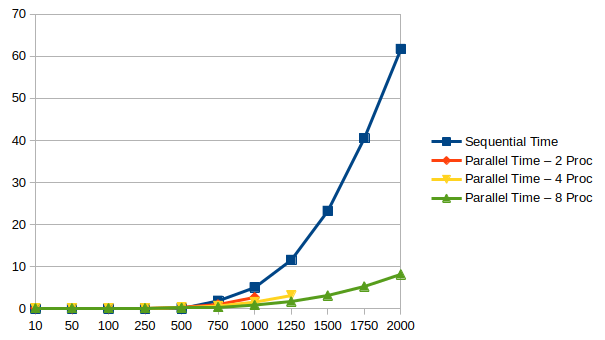
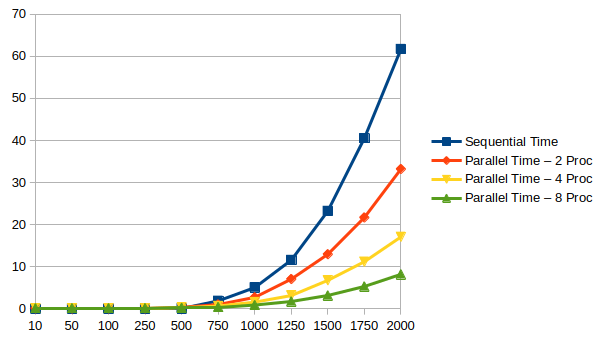
Add files via upload

diff --git a/MatrixC.c b/MatrixC.c
@@ -765,122 +765,43 @@ void subtractMatrix(const Matrix *A, const Matrix *B, Matrix *result)
 }
 
 /*
-Name: LU()
-Parameters: Matrix *A, Matrix *L, Matrix *U
+Name: LU
+Parameters: Matrix* A, Matrix* L, Matrix* U
 Return: void
-Description: Computes LU decomposition of matrix A using OpenMPI. A = L × U
+Description: Performs LU decomposition
 */
 void LU(Matrix *A, Matrix *L, Matrix *U)
 {
-  if (!isValid(A))
-    error("Invalid matrix");
-
-  int rank, size;
-  MPI_Comm_rank(MPI_COMM_WORLD, &rank);
-  MPI_Comm_size(MPI_COMM_WORLD, &size);
-
   int n = A->rows;
 
-  if (A->rows != A->cols)
-    error("LU decomposition requires a square matrix");
-
-  int rows_per_proc = n / size;
-  int remainder = n % size;
-  int local_rows = (rank < remainder) ? rows_per_proc + 1 : rows_per_proc;
-
-  int start_row = (rank < remainder)
-                      ? rank * (rows_per_proc + 1)
-                      : rank * rows_per_proc + remainder;
-
-  double local_matrix[local_rows][n];
-  double pivot_row[n];
-
-  // Setup scatter metadata
-  int sendcounts[size], displs[size];
-  int offset = 0;
-  for (int i = 0; i < size; i++)
+  // Initialize L and U matrices
+  for (int i = 0; i < n; ++i)
   {
-    int count = ((i < remainder) ? rows_per_proc + 1 : rows_per_proc) * n;
-    sendcounts[i] = count;
-    displs[i] = offset;
-    offset += count;
-  }
-
-  // Scatter A into local_matrix
-  MPI_Scatterv(&(A->matrix[0][0]), sendcounts, displs, MPI_DOUBLE,
-               &(local_matrix[0][0]), local_rows * n, MPI_DOUBLE,
-               0, MPI_COMM_WORLD);
-
-  if (rank == 0)
-  {
-    initSize(L, n, n);
-    initSize(U, n, n);
-  }
-
-  for (int k = 0; k < n; k++)
-  {
-    // Determine pivot owner and local row index
-    int owner = -1, local_k = -1;
-    for (int i = 0; i < size; i++)
+    for (int j = 0; j < n; ++j)
     {
-      int s = (i < remainder) ? i * (rows_per_proc + 1) : i * rows_per_proc + remainder;
-      int e = s + ((i < remainder) ? rows_per_proc + 1 : rows_per_proc);
-      if (k >= s && k < e)
+      L->matrix[i][j] = 0.0;
+      U->matrix[i][j] = A->matrix[i][j];
+    }
+  }
+
+  for (int k = 0; k < n; ++k)
+  {
+    for (int i = k + 1; i < n; ++i)
+    {
+      double multiplier = U->matrix[i][k] / U->matrix[k][k];
+      L->matrix[i][k] = multiplier;
+
+      for (int j = k; j < n; ++j)
       {
-        owner = i;
-        local_k = k - s;
-        break;
+        U->matrix[i][j] -= multiplier * U->matrix[k][j];
       }
     }
-
-    if (rank == owner)
-      memcpy(pivot_row, local_matrix[local_k], sizeof(double) * n);
-
-    MPI_Bcast(pivot_row, n, MPI_DOUBLE, owner, MPI_COMM_WORLD);
-
-    for (int i = 0; i < local_rows; i++)
-    {
-      int global_i = start_row + i;
-      if (global_i <= k)
-        continue;
-
-      double factor = local_matrix[i][k] / pivot_row[k];
-      local_matrix[i][k] = factor;
-
-      for (int j = k + 1; j < n; j++)
-        local_matrix[i][j] -= factor * pivot_row[j];
-    }
   }
 
-  // Gather modified matrix back to A
-  MPI_Gatherv(&(local_matrix[0][0]), local_rows * n, MPI_DOUBLE,
-              &(A->matrix[0][0]), sendcounts, displs, MPI_DOUBLE,
-              0, MPI_COMM_WORLD);
-
-  // Extract L and U on rank 0
-  if (rank == 0)
+  // Set the diagonal of L to 1
+  for (int i = 0; i < n; ++i)
   {
-    for (int i = 0; i < n; i++)
-    {
-      for (int j = 0; j < n; j++)
-      {
-        if (i > j)
-        {
-          L->matrix[i][j] = A->matrix[i][j];
-          U->matrix[i][j] = 0;
-        }
-        else if (i == j)
-        {
-          L->matrix[i][j] = 1;
-          U->matrix[i][j] = A->matrix[i][j];
-        }
-        else
-        {
-          L->matrix[i][j] = 0;
-          U->matrix[i][j] = A->matrix[i][j];
-        }
-      }
-    }
+    L->matrix[i][i] = 1.0;
   }
 }
 

diff --git a/luTest.c b/luTest.c
@@ -4,13 +4,10 @@
 #include <time.h>
 #include "MatrixC.h"
 
-void divisor(const char *msg)
-{
-  printf("\n---- %s ----\n\n", msg);
-}
+void divisor(const char *msg);
 
-// Global matrices
-Matrix A_original, L_parallel, U_parallel, L_seq, U_seq;
+Matrix A_original, L_parallel, U_parallel;
+Matrix L_seq, U_seq;
 
 int main(int argc, char **argv)
 {
@@ -22,22 +19,34 @@ int main(int argc, char **argv)
 
   srand(time(NULL) + rank);
 
-  int N = 100;
-  initSize(&A_original, N, N);
-  initSize(&L_parallel, N, N);
-  initSize(&U_parallel, N, N);
-  initSize(&L_seq, N, N);
-  initSize(&U_seq, N, N);
+  int N = 10, use_sequential = 0;
 
   if (rank == 0)
   {
+    printf("Enter matrix size (N for NxN): ");
+    scanf("%d", &N);
+
+    printf("Run sequential also? (1 = yes, 0 = no): ");
+    scanf("%d", &use_sequential);
+  }
+
+  MPI_Bcast(&N, 1, MPI_INT, 0, MPI_COMM_WORLD);
+  MPI_Bcast(&use_sequential, 1, MPI_INT, 0, MPI_COMM_WORLD);
+
+  initSize(&A_original, N, N);
+  initSize(&L_parallel, N, N);
+  initSize(&U_parallel, N, N);
+
+  if (rank == 0)
+  {
+    initSize(&L_seq, N, N);
+    initSize(&U_seq, N, N);
     setRandom(&A_original, 100);
   }
 
-  // Broadcast A_original to all
   MPI_Bcast(&(A_original.matrix[0][0]), N * N, MPI_DOUBLE, 0, MPI_COMM_WORLD);
 
-  // ---------- Parallel LU ----------
+  // ------------------ Parallel LU ------------------
   if (rank == 0)
     printf("Running parallel LU()...\n");
 
@@ -47,27 +56,31 @@ int main(int argc, char **argv)
 
   if (rank == 0)
   {
-    printf("LU() done in %.3f seconds\n", end - start);
-    divisor("LU");
-  }
+    printf("Parallel LU() done in %.3f seconds\n", end - start);
+    divisor("Parallel LU");
 
-  // ---------- Sequential LU ----------
-  if (rank == 0)
-  {
-    Matrix A_copy;
-    initSize(&A_copy, N, N);
-    copyMatrix(&A_copy, &A_original);
+    if (use_sequential == 1)
+    {
+      Matrix A_copy;
+      initSize(&A_copy, N, N);
+      copyMatrix(&A_copy, &A_original);
 
-    printf("Running sequential Seq_LU()...\n");
+      printf("Running sequential Seq_LU()...\n");
 
-    start = MPI_Wtime();
-    Seq_LU(&A_copy, &L_seq, &U_seq);
-    end = MPI_Wtime();
+      start = MPI_Wtime();
+      Seq_LU(&A_copy, &L_seq, &U_seq);
+      end = MPI_Wtime();
 
-    printf("Seq_LU() done in %.3f seconds\n", end - start);
-    divisor("Seq_LU");
+      printf("Sequential Seq_LU() done in %.3f seconds\n", end - start);
+      divisor("Sequential LU");
+    }
   }
 
   MPI_Finalize();
   return 0;
+}
+
+void divisor(const char *msg)
+{
+  printf("\n---- %s ----\n\n", msg);
 }

diff --git a/multiplyTest.c b/multiplyTest.c
@@ -21,7 +21,21 @@ int main(int argc, char **argv)
 
   srand(time(NULL) + rank);
 
-  int N = 1000;
+  int N = 100, use_parallel = 0;
+
+  if (rank == 0)
+  {
+    printf("Enter matrix size: ");
+    scanf("%d", &N);
+
+    printf("Run sequential too? (1 = yes, 0 = no): ");
+    scanf("%d", &use_parallel);
+  }
+
+  // Broadcast settings
+  MPI_Bcast(&N, 1, MPI_INT, 0, MPI_COMM_WORLD);
+  MPI_Bcast(&use_parallel, 1, MPI_INT, 0, MPI_COMM_WORLD);
+
   initSize(&A, N, N);
   initSize(&B, N, N);
   initSize(&C_parallel, N, N);
@@ -53,7 +67,7 @@ int main(int argc, char **argv)
   }
 
   // ------------------ Sequential ------------------
-  if (rank == 0)
+  if (rank == 0 && use_parallel == 1)
   {
     printf("Running sequential Seq_multiplyMatrix()...\n");
 

diff --git a/rrefTest.c b/rrefTest.c
@@ -22,7 +22,21 @@ int main(int argc, char **argv)
 
   srand(time(NULL) + rank);
 
-  int N = 1000;
+  int N = 10, use_parallel = 1;
+
+  if (rank == 0)
+  {
+    printf("Enter matrix size: ");
+    scanf("%d", &N);
+
+    printf("Run sequential too? (1 = yes, 0 = no): ");
+    scanf("%d", &use_parallel);
+  }
+
+  // Broadcast settings
+  MPI_Bcast(&N, 1, MPI_INT, 0, MPI_COMM_WORLD);
+  MPI_Bcast(&use_parallel, 1, MPI_INT, 0, MPI_COMM_WORLD);
+
   initSize(&A_parallel, N, N);
   initSize(&A_seq, N, N);
 
@@ -51,7 +65,7 @@ int main(int argc, char **argv)
   }
 
   // ----------- Sequential Seq_rref() -----------
-  if (rank == 0)
+  if (rank == 0 && use_parallel == 1)
   {
     printf("Running sequential Seq_rref()...\n");
 

diff --git a/refTest.c b/refTest.c
@@ -22,7 +22,21 @@ int main(int argc, char **argv)
 
   srand(time(NULL) + rank);
 
-  int N = 1000;
+  int N = 10, use_parallel = 1;
+
+  if (rank == 0)
+  {
+    printf("Enter matrix size: ");
+    scanf("%d", &N);
+
+    printf("Run sequential too? (1 = yes, 0 = no): ");
+    scanf("%d", &use_parallel);
+  }
+
+  // Broadcast settings
+  MPI_Bcast(&N, 1, MPI_INT, 0, MPI_COMM_WORLD);
+  MPI_Bcast(&use_parallel, 1, MPI_INT, 0, MPI_COMM_WORLD);
+
   initSize(&A_parallel, N, N);
   initSize(&A_seq, N, N);
 
@@ -51,7 +65,7 @@ int main(int argc, char **argv)
   }
 
   // ----------- Sequential Seq_ref() -----------
-  if (rank == 0)
+  if (rank == 0 && use_parallel == 1)
   {
     printf("Running sequential Seq_ref()...\n");
 

diff --git a/MatrixC.h b/MatrixC.h
@@ -1,8 +1,8 @@
 #ifndef MATRIXC_H
 #define MATRIXC_H
 
-#define MAX_ROWS 4000
-#define MAX_COLS 4000
+#define MAX_ROWS 2100
+#define MAX_COLS 2100
 
 #include <stdio.h>
 #include <stdlib.h>
